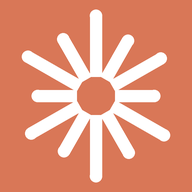
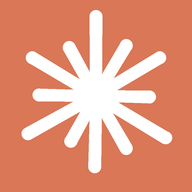
Add files via upload

diff --git a/app.js b/app.js
@@ -8,9 +8,12 @@ const save=()=>{try{localStorage.setItem(KEY,JSON.stringify(S))}catch(e){}};
 let tab='chat',busy=false,incognito=false;
 
 /* star logo */
-const starSVG=()=>{let p='';for(let i=0;i<12;i++){const a=i*Math.PI/6,L=[44,35,41,32,43,36][i%6];
-p+=`<line x1="${(50+9*Math.sin(a)).toFixed(1)}" y1="${(50-9*Math.cos(a)).toFixed(1)}" x2="${(50+L*Math.sin(a)).toFixed(1)}" y2="${(50-L*Math.cos(a)).toFixed(1)}"/>`}
-return `<svg viewBox="0 0 100 100" stroke="currentColor" stroke-width="6.5" stroke-linecap="round">${p}</svg>`};
+const RAYS=[[0,46],[31,34],[59,43],[91,31],[121,47],[150,35],[181,41],[209,30],[241,45],[271,33],[301,43],[331,32]];
+const starSVG=()=>{let p='';RAYS.forEach(([d,L])=>{const a=d*Math.PI/180,s=Math.sin(a),c=Math.cos(a),px=c,py=s,r0=3,w0=3.4,w1=3.7;
+const f=n=>n.toFixed(1),X=(r,w)=>[50+r*s+w*px,50-r*c+w*py],Y=(r,w)=>[50+r*s-w*px,50-r*c-w*py];
+const q=[X(r0,w0),X(L,w1),Y(L,w1),Y(r0,w0)].map(v=>f(v[0])+','+f(v[1])).join(' ');
+p+=`<polygon points="${q}"/><circle cx="${f(50+L*s)}" cy="${f(50-L*c)}" r="${w1}"/>`});
+return `<svg viewBox="0 0 100 100" fill="currentColor">${p}<circle cx="50" cy="50" r="8.5"/></svg>`};
 const fillStars=()=>$$('[data-star]').forEach(e=>e.innerHTML=starSVG());
 fillStars();
 

diff --git a/sw.js b/sw.js
@@ -1,4 +1,4 @@
-const V='claude-v2',F=['./','index.html','style.css','app.js','manifest.webmanifest','icon-192.png','apple-touch-icon.png'];
+const V='claude-v3',F=['./','index.html','style.css','app.js','manifest.webmanifest','icon-192.png','apple-touch-icon.png'];
 self.addEventListener('install',e=>{e.waitUntil(caches.open(V).then(c=>c.addAll(F)));self.skipWaiting()});
 self.addEventListener('activate',e=>{e.waitUntil(caches.keys().then(k=>Promise.all(k.filter(x=>x!==V).map(x=>caches.delete(x)))));self.clients.claim()});
 self.addEventListener('fetch',e=>{if(e.request.method!=='GET'||new URL(e.request.url).origin!==location.origin)return;
